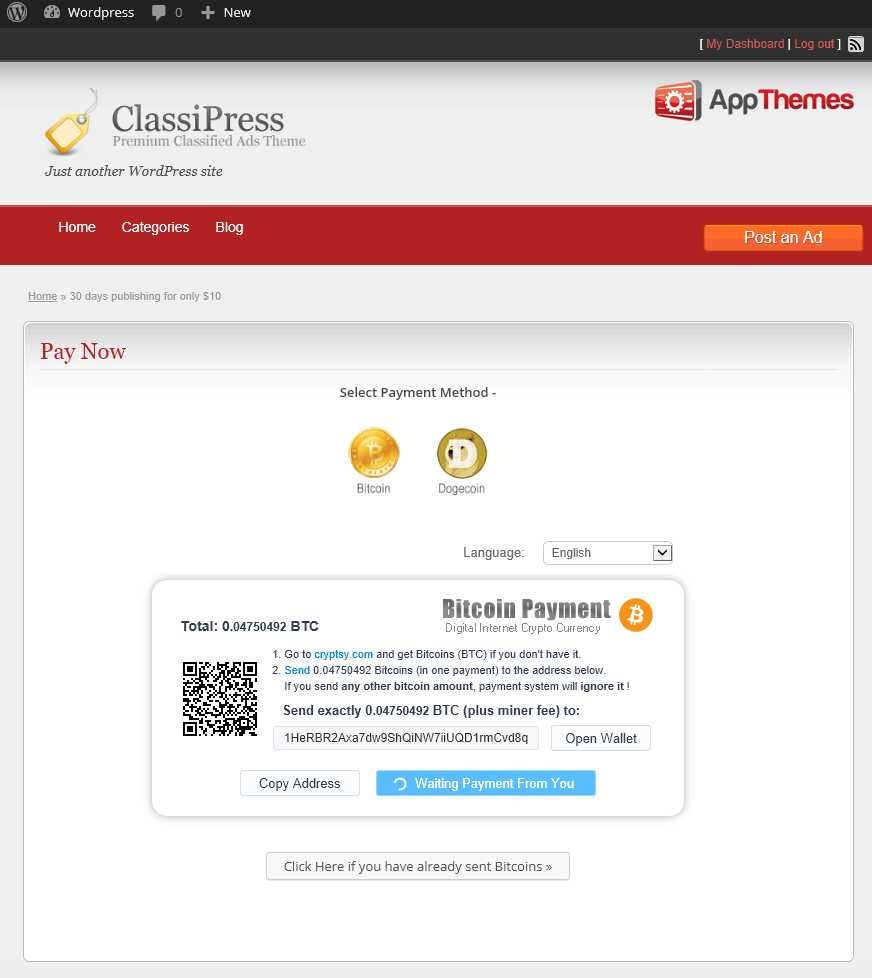
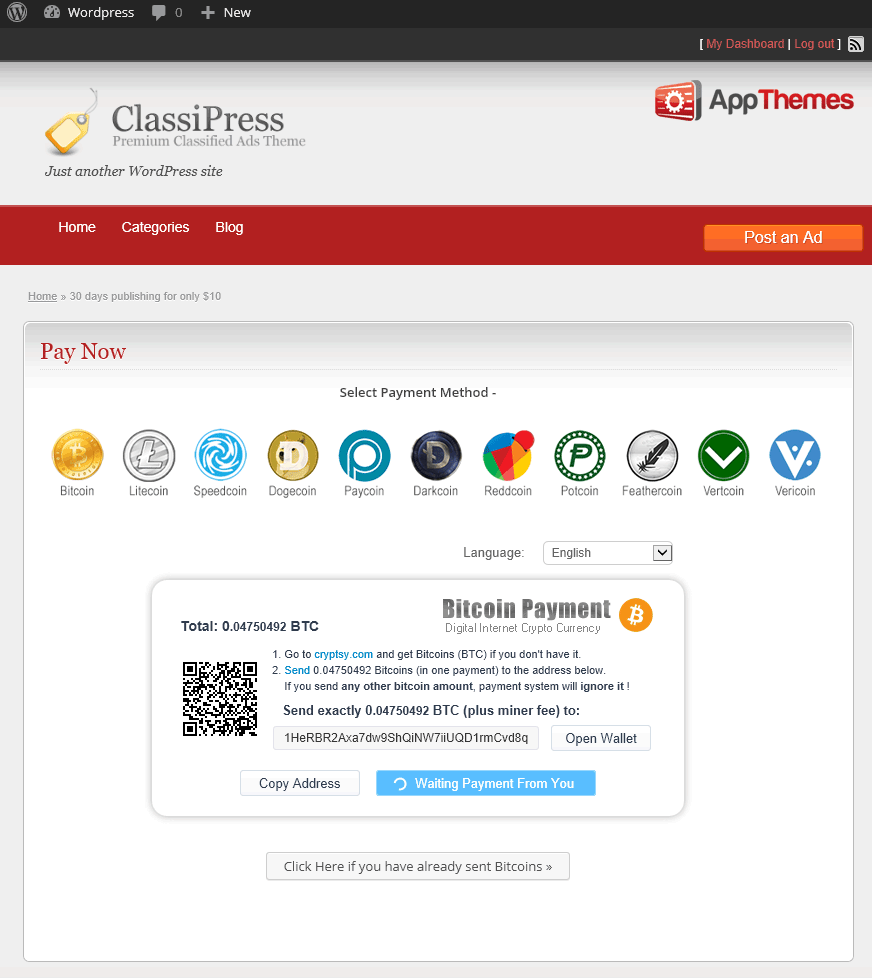
Version 1.0.1
Support new coin - Paycoin XPY

Changed region(s): [[0.3096, 0.4294, 0.9599, 0.5215], [0.0619, 0.4294, 0.2787, 0.5215]]

diff --git a/gourl-appthemes.php b/gourl-appthemes.php
@@ -2,8 +2,8 @@
 /*
 Plugin Name: 		GoUrl AppThemes - Bitcoin Payments for Classipress, Vantage, JobRoller, etc
 Plugin URI: 		https://gourl.io/bitcoin-appthemes-classipress-jobroller-vantage-etc.html
-Description: 		Provides a <a href="https://gourl.io">GoUrl.io</a> Bitcoin Payment Gateway for AppThemes Premium Themes - Classipress, Vantage, JobRoller, Clipper, Taskerr, HireBee, Ideas, Quality Control, etc. Support product prices in USD/EUR/etc or in Bitcoin/Altcoins directly and sends the amount straight to your business Bitcoin/Altcoin wallet. Convert your USD/EUR/etc prices to cryptocoins using Google/Cryptsy Live Exchange Rates. Accept Bitcoin, Litecoin, Dogecoin, Speedcoin, Darkcoin, Vertcoin, Reddcoin, Feathercoin, Vericoin, Potcoin payments online. No Chargebacks, Global, Secure. All in automatic mode.
-Version: 			1.0.0
+Description: 		Provides a <a href="https://gourl.io">GoUrl.io</a> Bitcoin/Altcoins Payment Gateway for all <a href="http://www.appthemes.com/themes/">AppThemes.com Premium Themes</a> - Classipress, Vantage, JobRoller, Clipper, Taskerr, HireBee, Ideas, Quality Control, etc. Support product prices in USD/EUR/etc and in Bitcoin/Altcoins directly; sends the amount straight to your business Bitcoin/Altcoin wallet. Convert your USD/EUR/etc prices to cryptocoins using Google/Bitstamp/Cryptsy Live Exchange Rates. Accept Bitcoin, Litecoin, Speedcoin, Dogecoin, Paycoin, Darkcoin, Reddcoin, Potcoin, Feathercoin, Vertcoin, Vericoin payments online. No Chargebacks, Global, Secure. All in automatic mode.
+Version: 			1.0.1
 Author: 			GoUrl.io
 Author URI: 		https://gourl.io
 License: 			GPLv2
@@ -42,14 +42,14 @@ function gourl_app_gateway_load()
 		}
 	
 		if ($file == $this_plugin) {
-			$settings_link = '<a href="' . get_bloginfo('wpurl') . '/wp-admin/admin.php?page=app-payments-settings&tab=gourl">'.__( 'Settings', GOURLAP ).'</a>';
+			$settings_link = '<a href="'.admin_url('admin.php?page=app-payments-settings&tab=gourl').'">'.__( 'Settings', GOURLAP ).'</a>';
 			array_unshift($links, $settings_link);
 				
 			if (defined('GOURL'))
 			{
-				$unrecognised_link = '<a href="' . get_bloginfo('wpurl') . '/wp-admin/admin.php?page='.GOURL.'payments&s=unrecognised">'.__( 'Unrecognised', GOURLAP ).'</a>';
+				$unrecognised_link = '<a href="'.admin_url('admin.php?page='.GOURL.'payments&s=unrecognised').'">'.__( 'Unrecognised', GOURLAP ).'</a>';
 				array_unshift($links, $unrecognised_link);
-				$payments_link = '<a href="' . get_bloginfo('wpurl') . '/wp-admin/admin.php?page='.GOURL.'payments&s=gourlappthemes">'.__( 'Payments', GOURLAP ).'</a>';
+				$payments_link = '<a href="'.admin_url('admin.php?page='.GOURL.'payments&s=gourlappthemes').'">'.__( 'Payments', GOURLAP ).'</a>';
 				array_unshift($links, $payments_link);
 			}
 		}
@@ -107,7 +107,7 @@ function gourl_app_gateway_load()
 		*/
 		public function __construct()
 		{
-			$this->mainplugin_url = get_bloginfo('wpurl') . "/wp-admin/plugin-install.php?tab=search&type=term&s=GoUrl+Bitcoin+Payment+Gateway+Downloads";
+			$this->mainplugin_url = admin_url("plugin-install.php?tab=search&type=term&s=GoUrl+Bitcoin+Payment+Gateway+Downloads");
 			
 			$title = trim(get_option(GOURLAP."title"));
 			if (!$title) $title = __( 'Bitcoin/Altcoins', GOURLAP );
@@ -144,9 +144,9 @@ function gourl_app_gateway_load()
 	
 			if (class_exists('gourlclass') && defined('GOURL') && defined('GOURL_ADMIN') && is_object($gourl))
 			{
-				if (true === version_compare(GOURL_VERSION, '1.2.6', '<'))
+				if (true === version_compare(GOURL_VERSION, '1.2.7', '<'))
 				{
-					$description .= '<div class="error"><p>' .sprintf(__( '<b>Your GoUrl Bitcoin Gateway <a href="%s">Main Plugin</a> version is too old. Requires 1.2.6 or higher version. Please <a href="%s">update</a> to latest version.</b>  &#160; &#160; &#160; &#160; Information: &#160; <a href="https://gourl.io/bitcoin-wordpress-plugin.html">Plugin Homepage</a> &#160; &#160; &#160; <a href="https://wordpress.org/plugins/gourl-bitcoin-payment-gateway-paid-downloads-membership/">WordPress.org Plugin Page</a>', GOURLAP ), GOURL_ADMIN.GOURL, $this->mainplugin_url).'</p></div>';
+					$description .= '<div class="error"><p>' .sprintf(__( '<b>Your GoUrl Bitcoin Gateway <a href="%s">Main Plugin</a> version is too old. Requires 1.2.7 or higher version. Please <a href="%s">update</a> to latest version.</b>  &#160; &#160; &#160; &#160; Information: &#160; <a href="https://gourl.io/bitcoin-wordpress-plugin.html">Plugin Homepage</a> &#160; &#160; &#160; <a href="https://wordpress.org/plugins/gourl-bitcoin-payment-gateway-paid-downloads-membership/">WordPress.org Plugin Page</a>', GOURLAP ), GOURL_ADMIN.GOURL, $this->mainplugin_url).'</p></div>';
 				}
 				else
 				{
@@ -172,8 +172,8 @@ function gourl_app_gateway_load()
 				$description .= '<div class="error"><p>' .sprintf(__( '<b>You need to install GoUrl Bitcoin Gateway Main Plugin also. Go to - <a href="%s">Bitcoin Gateway plugin page</a></b> &#160; &#160; &#160; &#160; Information: &#160; <a href="https://gourl.io/bitcoin-wordpress-plugin.html">Plugin Homepage</a> &#160; &#160; &#160; <a href="https://wordpress.org/plugins/gourl-bitcoin-payment-gateway-paid-downloads-membership/">WordPress.org Plugin Page</a> ', GOURLAP ), $this->mainplugin_url).'</p></div>';
 			}
 				
-			$description .= __( 'If you use multiple stores, please create separate <a target="_blank" href="https://gourl.io/editrecord/coin_boxes/0">GoUrl Payment Box</a> (with unique payment box public/private keys) for each of your stores/websites. Do not use the same GoUrl Payment Box with the same public/private keys on your different websites/stores.', GOURLAP ).'<br/>';
-			$description .= sprintf(__( 'Accept %s payments online in Appthemes Premium Themes - Classipress, Taskerr, HireBee, Vantage, Clipper, JobRoller, Ideas, Quality Control, etc.', GOURLAP), ($this->coin_names?ucwords(implode(", ", $this->coin_names)):"Bitcoin, Litecoin, Dogecoin, Speedcoin, Darkcoin, Vertcoin, Reddcoin, Feathercoin, Vericoin, Potcoin")).'<br/>';
+			$description .= __( 'If you use multiple stores/sites online, please create separate <a target="_blank" href="https://gourl.io/editrecord/coin_boxes/0">GoUrl Payment Box</a> (with unique payment box public/private keys) for each of your stores/websites. Do not use the same GoUrl Payment Box with the same public/private keys on your different websites/stores.', GOURLAP ).'<br/>';
+			$description .= sprintf(__( 'Accept %s payments online in Appthemes Premium Themes - Classipress, Taskerr, HireBee, Vantage, Clipper, JobRoller, Ideas, Quality Control, etc.', GOURLAP), ($this->coin_names?ucwords(implode(", ", $this->coin_names)):"Bitcoin, Litecoin, Speedcoin, Dogecoin, Paycoin, Darkcoin, Reddcoin, Potcoin, Feathercoin, Vertcoin, Vericoin")).'<br/>';
 	
 	
 			$fields = array(
@@ -289,7 +289,7 @@ function gourl_app_gateway_load()
 				echo '<h2>' . __( 'Information', GOURLAP ) . '</h2>' . PHP_EOL;
 				echo "<div class='error'>".__( "Please try a different payment method. Admin need to install and activate wordpress plugin 'GoUrl Bitcoin Gateway' (https://gourl.io/bitcoin-wordpress-plugin.html) to accept Bitcoin/Altcoin Payments online", GOURLAP )."</div>";
 			}
-			elseif (!$this->payments || !$options["defcoin"] || true === version_compare(GOURL_VERSION, '1.2.6', '<') ||
+			elseif (!$this->payments || !$options["defcoin"] || true === version_compare(GOURL_VERSION, '1.2.7', '<') ||
 					(array_key_exists($order_currency, $this->coin_names) && !array_key_exists($order_currency, $this->payments)))
 			{
 				echo '<h2>' . __( 'Information', GOURLAP ) . '</h2>' . PHP_EOL;
@@ -314,7 +314,7 @@ function gourl_app_gateway_load()
 				{
 					echo '<h2>' . __( 'Information', GOURLAP ) . '</h2>' . PHP_EOL;
 					echo "<div align='center'><a href='".wp_login_url(get_permalink())."'>
-						<img style='border:none;box-shadow:none;' title='".__('You need to login or register on website first', GOURLAP )."' vspace='10'
+						<img style='border:none;box-shadow:none;' title='".__('You need first to login or register on the website to make Bitcoin/Altcoin Payments', GOURLAP )."' vspace='10'
 						src='".$gourl->box_image()."' border='0'></a></div>";
 				}
 				elseif ($amount <= 0)

diff --git a/readme.md b/readme.md
@@ -2,37 +2,46 @@
 GoUrl AppThemes - Bitcoin Payments for Classipress, Vantage, JobRoller, etc
 -----------------------------------------------------------
 
-Version 1.0.0
+Version 1.0.1
 
 
-**Provides a Bitcoin/Altcoins Payment Gateway for Appthemes Premium Themes - Classipress, Vantage, JobRoller, Clipper, Taskerr, HireBee, Ideas, Quality Control, etc. Accept Bitcoins, Litecoin, Dogecoin, Darkcoin, Reddcoin, etc. Payments Online**
+**Provides a Bitcoin/Altcoins Payment Gateway for all Appthemes Premium Themes - Classipress, Vantage, JobRoller, Clipper, Taskerr, HireBee, Ideas, Quality Control, etc.**
+
+Accept Bitcoin, Litecoin, Speedcoin, Dogecoin, Paycoin, Darkcoin, Reddcoin, Potcoin, Feathercoin, Vertcoin, Vericoin on Website Online
 
 * Author URI: [https://gourl.io](https://gourl.io)
-* Plugin URI: [https://gourl.io/bitcoin-appthemes-classipress-jobroller-vantage-etc.html](https://gourl.io/bitcoin-appthemes-classipress-jobroller-vantage-etc.html)
+* Plugin Page: [https://gourl.io/bitcoin-appthemes-classipress-jobroller-vantage-etc.html](https://gourl.io/bitcoin-appthemes-classipress-jobroller-vantage-etc.html)
+* Wordpress Page: [https://wordpress.org/plugins/gourl-appthemes-bitcoin-payments-classipress-vantage-jobroller](https://wordpress.org/plugins/gourl-appthemes-bitcoin-payments-classipress-vantage-jobroller/)
 * Screenshots: [https://gourl.io/bitcoin-appthemes-classipress-jobroller-vantage-etc.html#screenshot](https://gourl.io/bitcoin-appthemes-classipress-jobroller-vantage-etc.html#screenshot)
 * Requires at least: Wordpress 3.5 and Any Appthemes Premium Theme
 * Tested up to: Wordpress 4.2 and Appthemes
-* Stable Tag: 1.0.0
+* Stable Tag: 1.0.1
 * License: GNU Version 2 or Any Later Version
 
 
 **Wordpress Plugin for Appthemes Features -**
 
 * 100% Free Open Source Plugin on [Github.com](https://github.com/cryptoapi/Bitcoin-Payments-Appthemes)
+* Provides a Cryptocurrency Payment Gateway for [Appthemes](http://www.appthemes.com/themes/) - Classipress, Vantage, JobRoller, Clipper, Taskerr, HireBee, Ideas, Quality Control, etc.
+* Accept Bitcoin and other cryptocurrency payments in all Appthemes.com wordpress themes
 * No Monthly Fee, Transaction Fee from 0%
-* Provides a Payment Gateway for [Appthemes](http://www.appthemes.com/themes/) - Classipress, Vantage, JobRoller, Clipper, Taskerr, HireBee, Ideas, Quality Control, etc.
-* Accept Bitcoin, Litecoin, Dogecoin, Speedcoin, Darkcoin, Vertcoin, Reddcoin, Feathercoin, Vericoin, Potcoin payments in Appthemes
 * Product Prices in Bitcoin/Altcoins directly and sends the amount straight to your business wallet.
-* Product Prices in USD/EUR/GBP/etc. Google/Cryptsy Live Exchange Rates
+* Product Prices in USD/EUR/GBP/etc. Google/Bitstamp/Cryptsy Live Exchange Rates
 * Direct Integration on your website, no external payment pages opens (as other payment gateways offer)
 * You will see the bitcoin/altcoin payment statistics in one common table on your website. 
 * No Chargebacks, Global, Secure. All in automatic mode.
-* [Free Plugin Support](https://gourl.io/view/contact/Contact_Us.html) for You
+* [Free Tech Support](https://gourl.io/view/contact/Contact_Us.html) for You
 
 
+Awaiting Payment
+----------------
 # ![Appthemes-Order-Page](https://gourl.io/images/appthemes/screenshot-3.png)
 
+
+Payment Received
+----------------
 # ![Appthemes-Payment-Page](https://gourl.io/images/appthemes/screenshot-4.png)
+
 
 
 
@@ -60,3 +69,4 @@ Plugin Options
   
 # ![Appthemes-Plugin-Options](https://gourl.io/images/appthemes/screenshot-1.png)
  
+           
